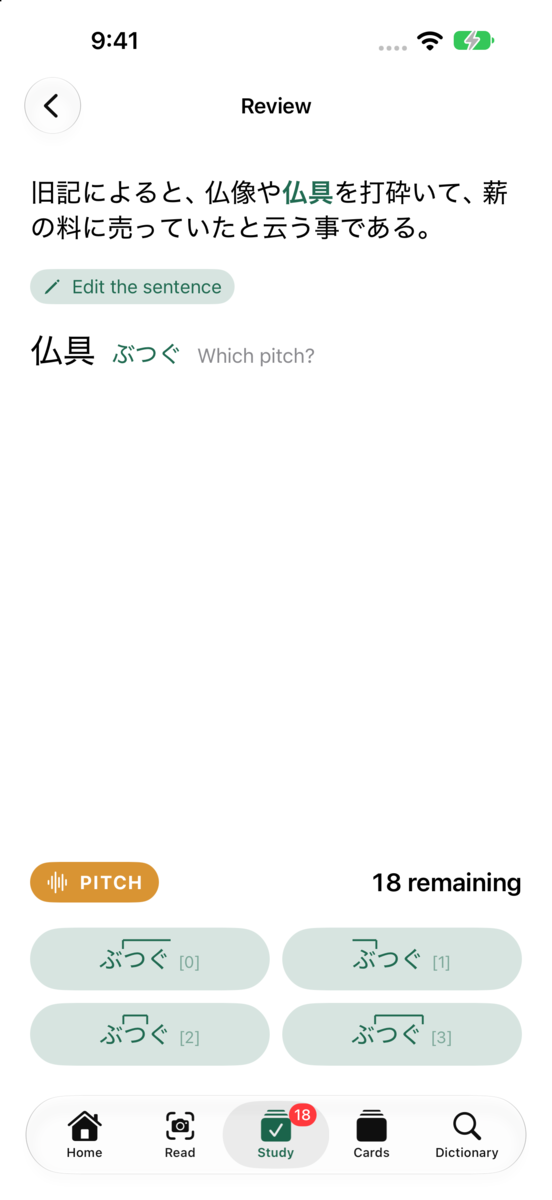
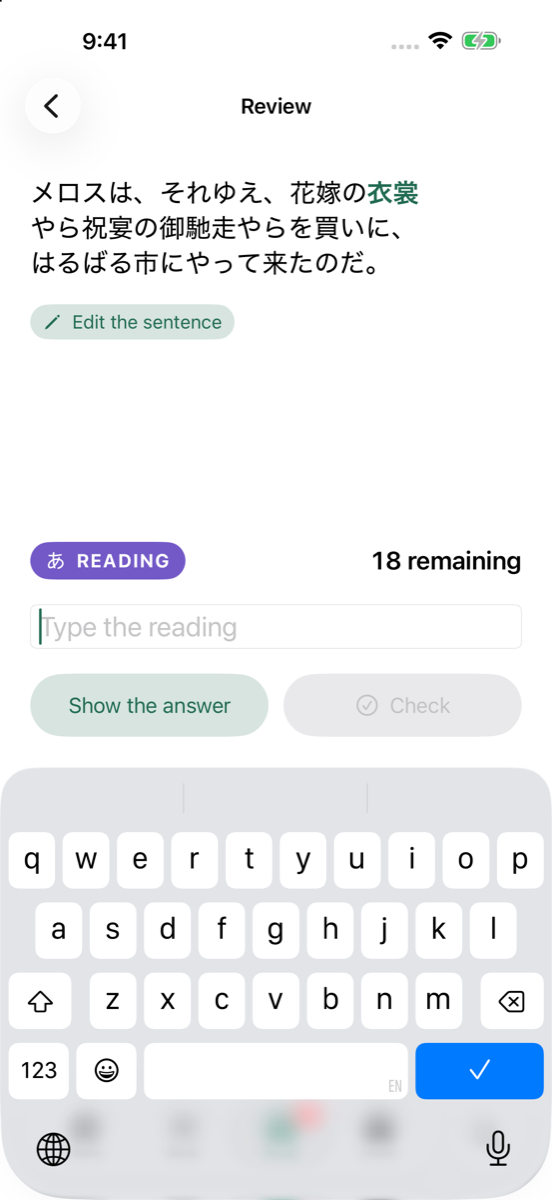
The screenshots page shows 1.0.2: review, Study, cards
The iPhone review and Study and the iPad cards, retaken for 1.0.2 (question
colors, Coming up's two charts), at 1200 px like the rest; the Study caption
names the chart by question.

diff --git a/content/screenshots.md b/content/screenshots.md
@@ -13,7 +13,7 @@ Mac reads what is pasted or dropped on it.
 {{< shot name="ip-read" caption="The page frozen on the screen; a word tapped lights up with its reading and its pitch." >}}
 {{< shot name="ip-word" caption="Every word of the selection, its reading, pitch and meaning — and the kanji behind it, with stroke order." >}}
 {{< shot name="ip-review" caption="A review: the sentence as it stood on the page, the reading typed, the pitch picked." >}}
-{{< shot name="ip-study" caption="The Study tab: what is due, and the week ahead by quarter day in the colours of the birds coming up." >}}
+{{< shot name="ip-study" caption="The Study tab: what is due, and the week ahead by quarter day, in the colours of the birds coming up and, below, of what they ask." >}}
 {{< /shotgrid >}}
 
 ### On iPad
